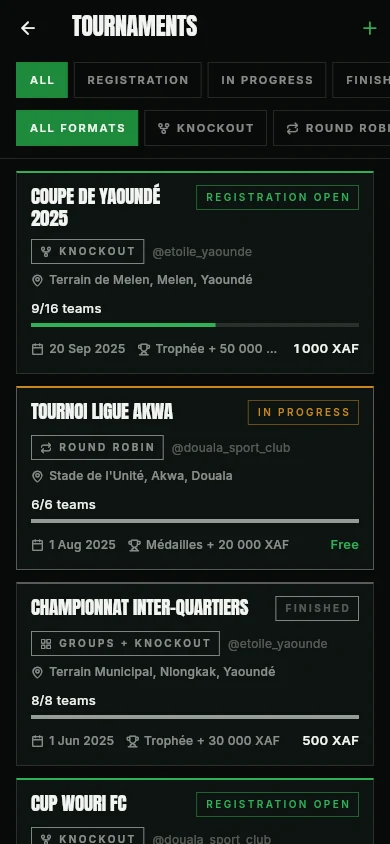
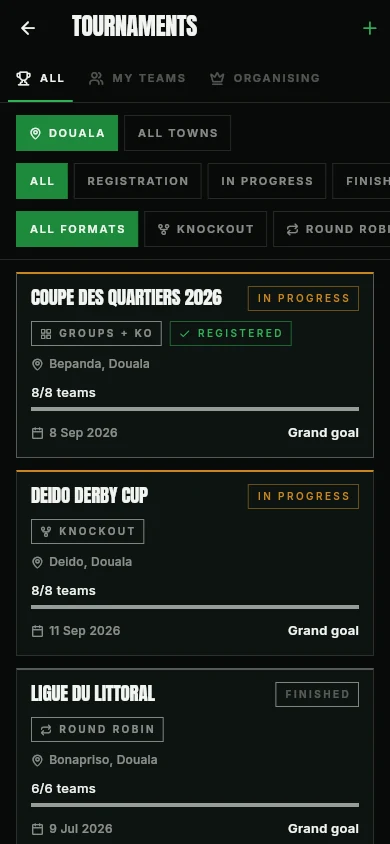
Add tournament captures: new phone list, desktop tab
- Tournaments section: the phone tournament list is replaced with the
  latest capture, whose dates are in 2026. The previous one showed 2025
  tournaments still open for registration.
- Web app tour gains a Tournaments tab showing "Coupe des Quartiers
  2026" fixtures with scores, between Rankings and Profile.
- With five tabs the row overflows on phones, and the tour could advance
  to a tab scrolled out of view. The row now scrolls the active tab to
  its centre (the row only, never the page) and hides its scrollbar.

The knockout-bracket captures were not used: every one is a QA
tournament titled "(TEST, IGNORE)" on real accounts.

Changed region(s): [[0.0308, 0.0616, 1.0, 1.0]]

diff --git a/src/components/landing/WebApp.tsx b/src/components/landing/WebApp.tsx
@@ -17,6 +17,7 @@ const SCREENS = [
   "exploreDesktop",
   "homeDesktop",
   "rankingsDesktop",
+  "tournamentsDesktop",
   "profileDesktop",
 ] as const;
 
@@ -34,6 +35,7 @@ const WebApp = () => {
   const reduced = useReducedMotion();
   const sectionRef = useRef<HTMLElement>(null);
   const frameRef = useRef<HTMLDivElement>(null);
+  const tablistRef = useRef<HTMLDivElement>(null);
 
   const [active, setActive] = useState(0);
   // The tour stops for good once someone picks a tab — moving it out from
@@ -50,6 +52,19 @@ const WebApp = () => {
     );
     return () => window.clearTimeout(id);
   }, [active, playing]);
+
+  // On narrow screens the tabs overflow; keep the active one centred in the
+  // row so the tour never advances to a tab the visitor can't see. Scrolls the
+  // row only — scrollIntoView would also move the page.
+  useEffect(() => {
+    const row = tablistRef.current;
+    const tab = row?.children[active] as HTMLElement | undefined;
+    if (!row || !tab || row.scrollWidth <= row.clientWidth) return;
+    row.scrollTo({
+      left: tab.offsetLeft - (row.clientWidth - tab.offsetWidth) / 2,
+      behavior: reduced ? "auto" : "smooth",
+    });
+  }, [active, reduced]);
 
   // The frame settles to full size as it scrolls up into view.
   const { scrollYProgress } = useScroll({
@@ -123,9 +138,10 @@ const WebApp = () => {
         >
           {/* Screen tabs */}
           <div
+            ref={tablistRef}
             role="tablist"
             aria-label={t.webapp.alt}
-            className="flex overflow-x-auto border-x border-t border-bone/15"
+            className="relative flex overflow-x-auto border-x border-t border-bone/15 [scrollbar-width:none] [&::-webkit-scrollbar]:hidden"
           >
             {t.webapp.tabs.map((label, i) => (
               <button

diff --git a/src/lib/i18n.ts b/src/lib/i18n.ts
@@ -24,7 +24,7 @@ const fr = {
     sub: "Pas une app mobile étirée. La carte en plein écran, les équipes juste à côté — Shabas sur ordinateur, sans rien installer.",
     cta: "Ouvrir l'app web",
     alt: "Shabas sur ordinateur",
-    tabs: ["Explorer", "Accueil", "Classement", "Profil"],
+    tabs: ["Explorer", "Accueil", "Classement", "Tournois", "Profil"],
   },
   hero: {
     badge: "Afrique · Canada · Et plus",
@@ -255,7 +255,7 @@ const en: typeof fr = {
     sub: "Not a phone app stretched to fit. A full-screen map with the teams right beside it — Shabas on your computer, nothing to install.",
     cta: "Open the web app",
     alt: "Shabas on desktop",
-    tabs: ["Explore", "Home", "Rankings", "Profile"],
+    tabs: ["Explore", "Home", "Rankings", "Tournaments", "Profile"],
   },
   hero: {
     badge: "Africa · Canada · And more",

diff --git a/src/lib/screenshots.ts b/src/lib/screenshots.ts
@@ -12,6 +12,7 @@ import exploreDesktop from "@/assets/app/explore-desktop.webp";
 import homeDesktop from "@/assets/app/home-desktop.webp";
 import rankingsDesktop from "@/assets/app/rankings-desktop.webp";
 import profileDesktop from "@/assets/app/profile-desktop.webp";
+import tournamentsDesktop from "@/assets/app/tournaments-desktop.webp";
 import legacyFormation from "@/assets/app-formation.webp";
 
 /**
@@ -44,5 +45,6 @@ export const SCREENSHOTS = {
   exploreDesktop: same(exploreDesktop),
   homeDesktop: same(homeDesktop),
   rankingsDesktop: same(rankingsDesktop),
+  tournamentsDesktop: same(tournamentsDesktop),
   profileDesktop: same(profileDesktop),
 } satisfies Record<string, Localised>;
